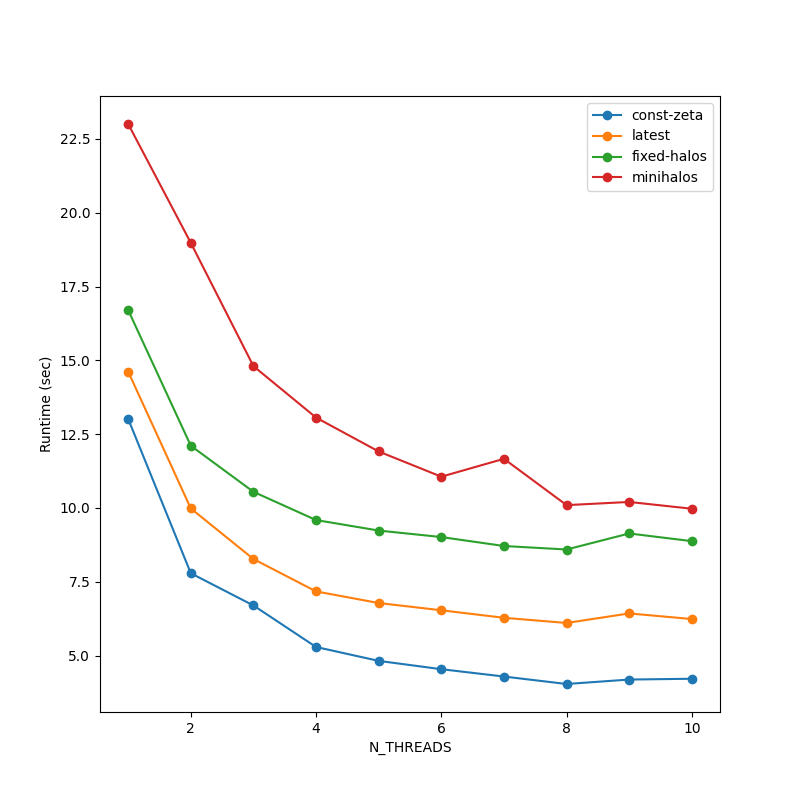
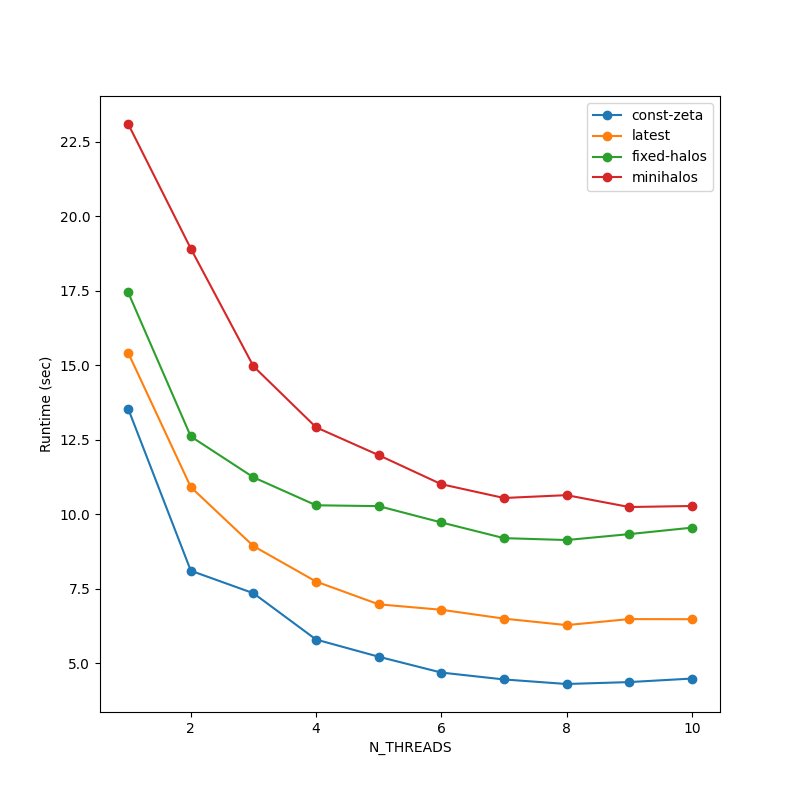
explored the possibility to set init_recomb=False in generate_global_evolution and setup_photon_cons

diff --git a/src/py21cmfast/drivers/global_evolution.py b/src/py21cmfast/drivers/global_evolution.py
@@ -230,11 +230,16 @@ class GlobalEvolution:
         )
 
 
-# NOTE: generate_global_evolution does not really need to initialize the recombination rate,
+# TODO: generate_global_evolution does not really need to initialize the recombination rate,
 # since it doesn't run the excursion set algorithm in the reionization code and at the moment
 # we do not apply recombination corrections when computing the global reionization history,
-# similarly as in the photon non-conservation correction. However, it's good to keep the
-# recombination rate initializer here in case this will be changed in the future.
+# similarly as in the photon non-conservation correction. Therefore, having init_recomb=True below yields
+# an overhead of a few seconds in the runtime.
+# However, if init_recomb=False, the code becomes MUCH slower, since each call to compute_ionization_field will
+# re-initialize the recombination rate table (if INOHMO_RECO=True). This could had been fixed by
+# forcing INHOMO_RECO=False in run_global_evolution, but this would limit the usage of running the code with mini-halos,
+# since currently there is no way to run mini-halos without recombinations. Once this limitation is relaxed in the future,
+# we could set init_recomb=False and save a few seconds.
 @high_level_func
 @c_state_initializer(init_sigma=True, init_heat=True, init_recomb=True)
 def generate_global_evolution(

diff --git a/src/py21cmfast/wrapper/photoncons.py b/src/py21cmfast/wrapper/photoncons.py
@@ -206,9 +206,9 @@ def _get_photon_nonconservation_data() -> dict:
 
 
 # NOTE: at the moment, photon non-conservation correction runs without recombination (for some reason...)
-# so the initialization of the recombination rate is not strictly necessary. However, it's good to keep the
-# recombination rate initializer here in case this will be changed in the future.
-@c_state_initializer(init_sigma=True, init_recomb=True)
+# so the initialization of the recombination rate is not strictly necessary.
+# In case this is changed in the future, it is important to set init_recomb=True
+@c_state_initializer(init_sigma=True, init_recomb=False)
 def setup_photon_cons(
     initial_conditions: InitialConditions,
     inputs: InputParameters | None = None,
